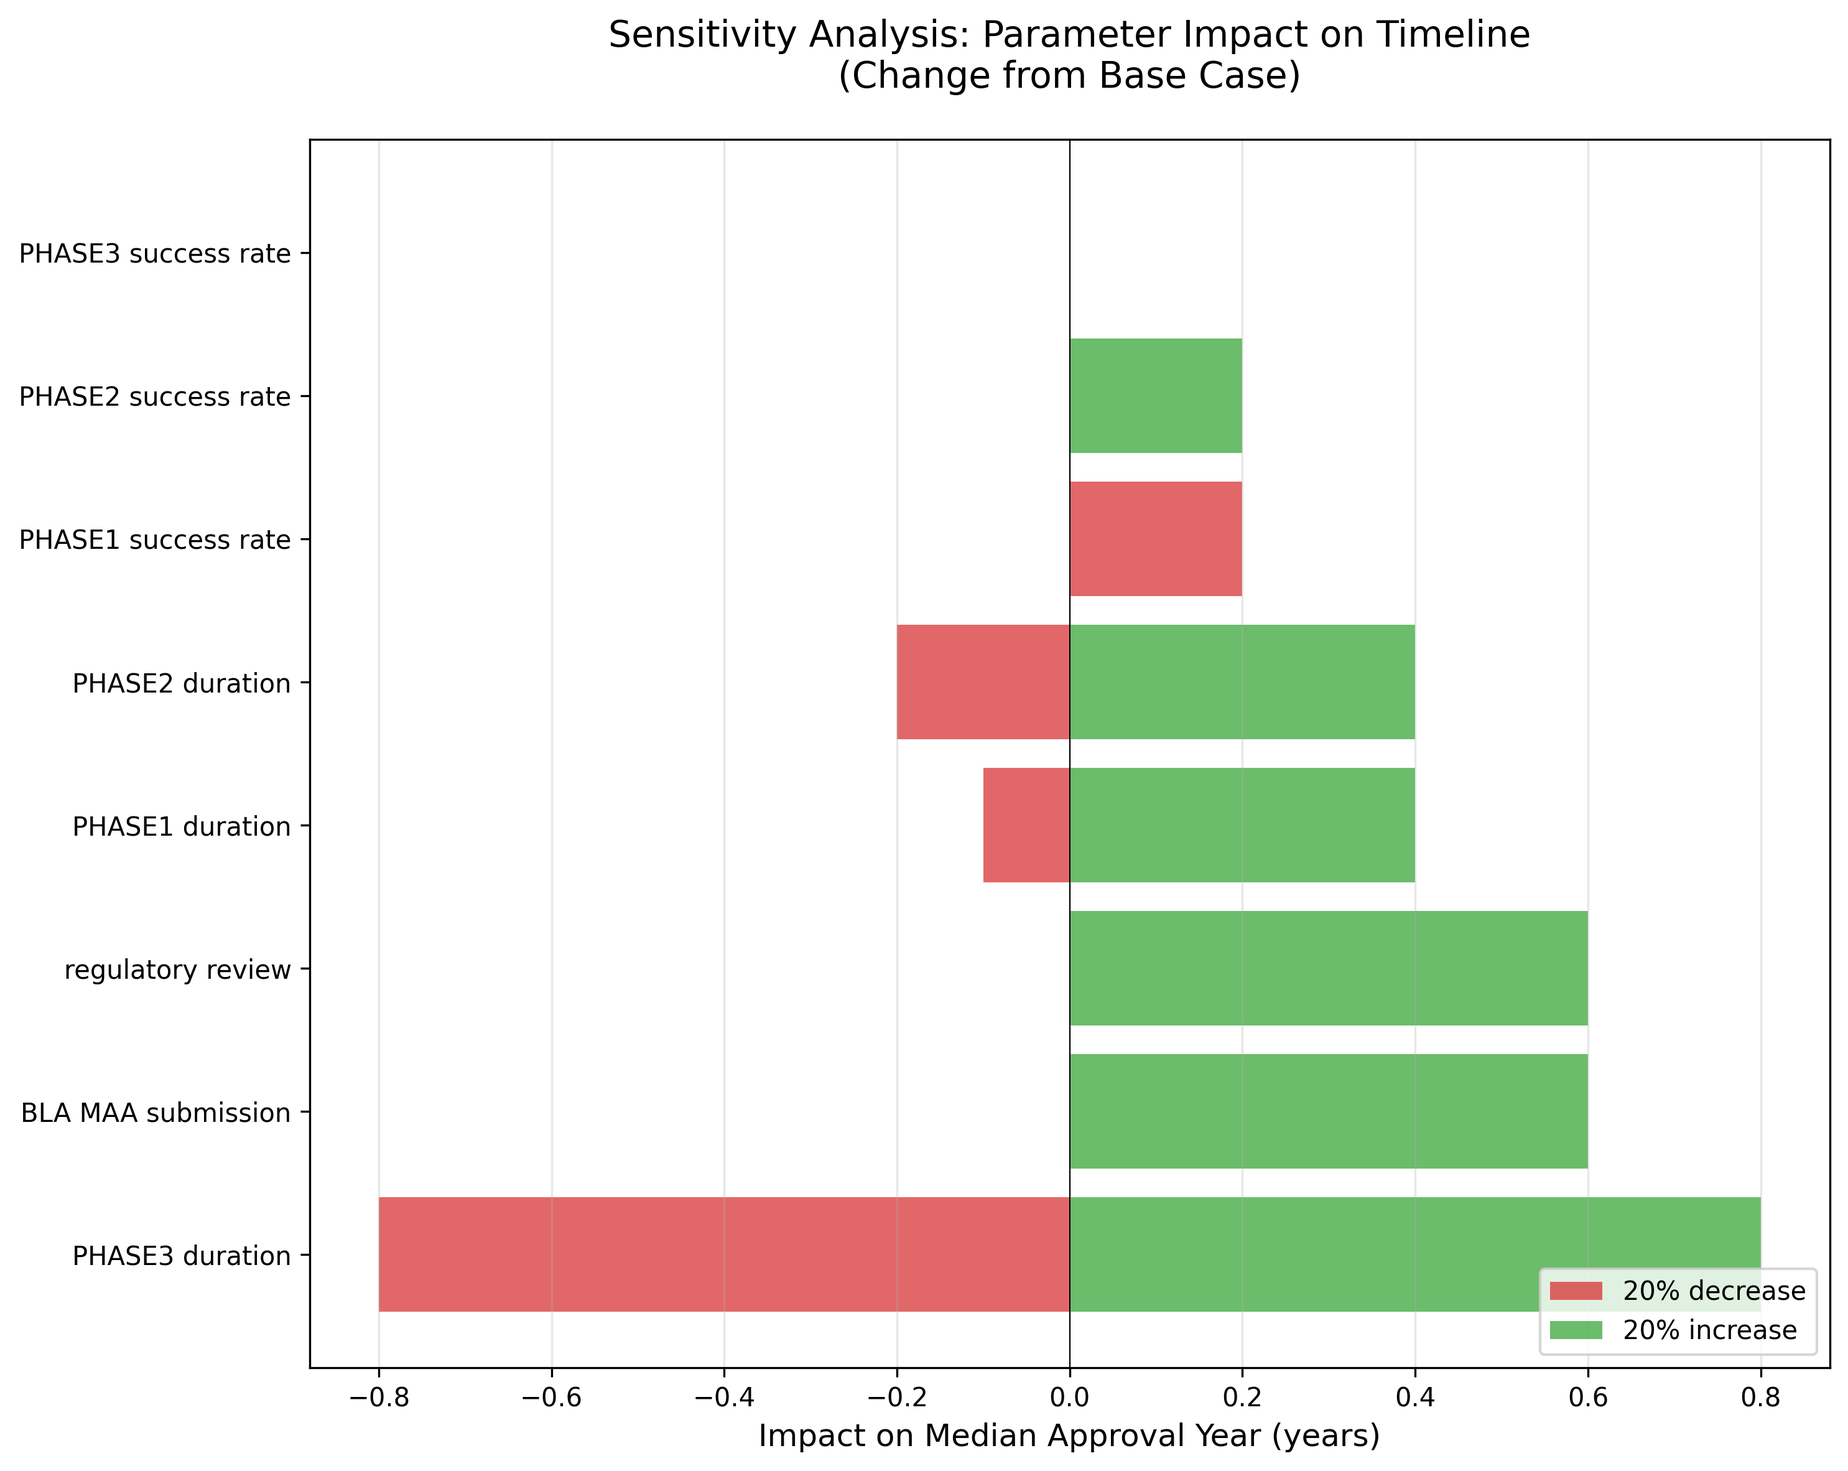
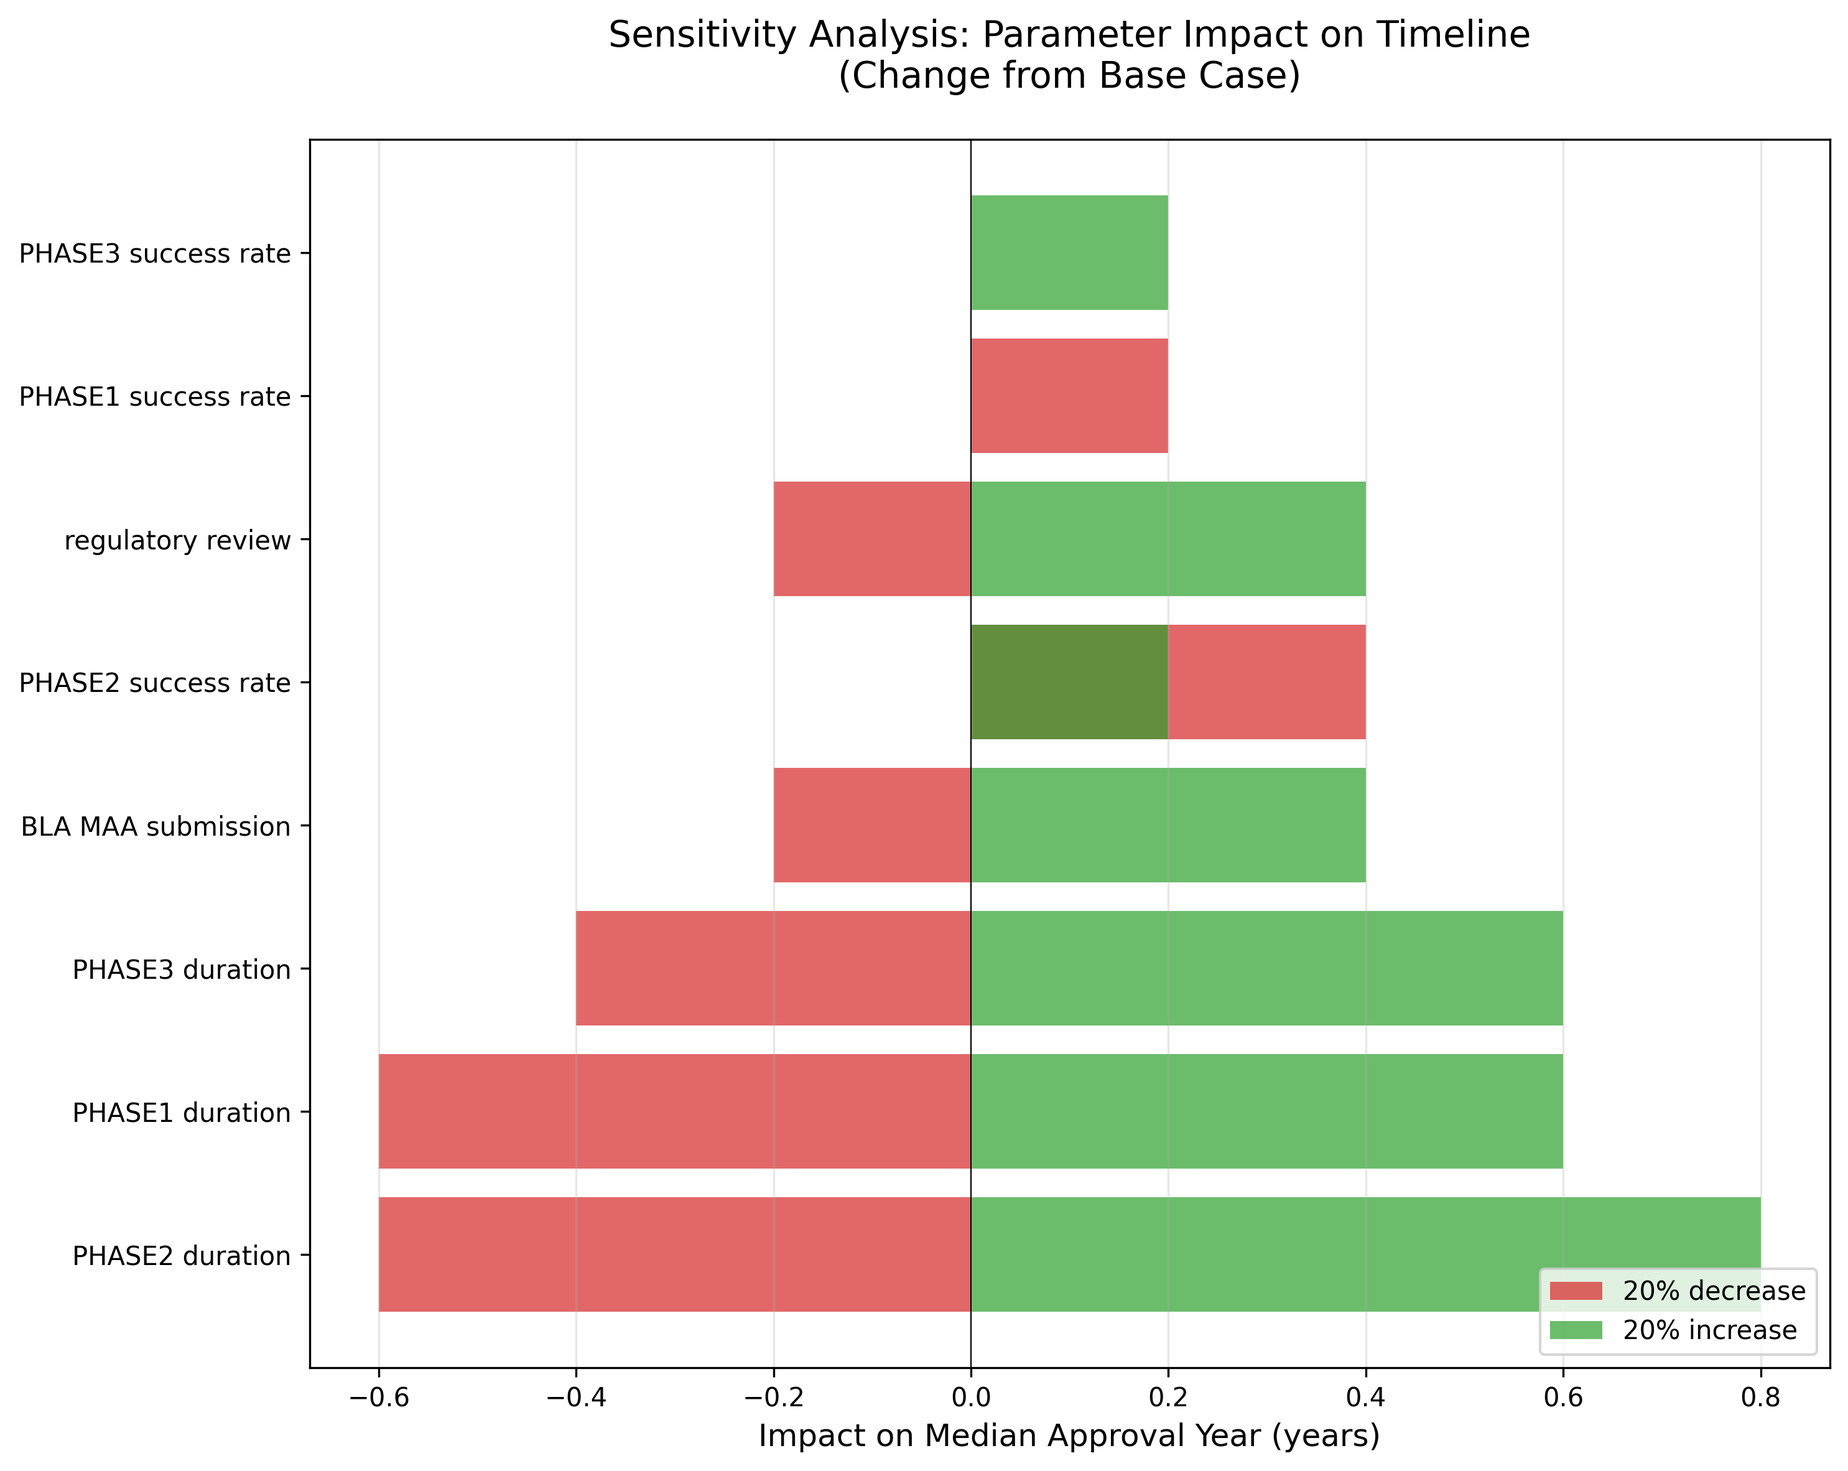
deploy: 4e02e018495c5252b7f7c3d6ae07ec598bbfbc79

diff --git a/public/index_old.html b/public/index_old.html
@@ -121,7 +121,7 @@
         </nav>
         
         <h1>網膜色素変性症（RP）治療開発ロードマップ</h1>
-<p>生成日時: 2025年08月18日 05:12</p>
+<p>生成日時: 2025年10月05日 16:33</p>
 <h2>エグゼクティブサマリー</h2>
 <p>本レポートは、網膜色素変性症（Retinitis Pigmentosa, RP）の治療法開発状況を定量的に分析し、効果的な治療法がいつ頃利用可能になるかを予測したものです。</p>
 <h3>主要な発見（米国FDA承認基準）</h3>
@@ -129,7 +129,7 @@
 <li><strong>最速の承認予測</strong>: 2026年（MCO-010光遺伝学治療）</li>
 <li>根拠: <a href="https://clinicaltrials.gov/study/NCT04945772" rel="noopener noreferrer" target="_blank">https://clinicaltrials.gov/study/NCT04945772</a></li>
 <li><strong>全体の中央値</strong>: 2037年（複数の治療法が利用可能になる時期）</li>
-<li><strong>現在アクティブな臨床試験</strong>: 53件（重要な完了試験含む）</li>
+<li><strong>現在アクティブな臨床試験</strong>: 54件（重要な完了試験含む）</li>
 <li><strong>成功率</strong>: Phase 1: 86.2%, Phase 2: 78.4%, Phase 3: 71.4%</li>
 </ul>
 <p>⚠ <strong>重要</strong>: 上記の予測は<strong>米国FDA承認</strong>を基準としています。<br/>
@@ -140,14 +140,14 @@
 <h3>臨床試験データ</h3>
 <ul>
 <li><strong>データソース</strong>: ClinicalTrials.gov</li>
-<li><strong>総試験数</strong>: 128件</li>
-<li><strong>アクティブな試験</strong>: 49件</li>
+<li><strong>総試験数</strong>: 129件</li>
+<li><strong>アクティブな試験</strong>: 51件</li>
 <li><strong>完了した試験</strong>: 52件</li>
 </ul>
 <h3>文献データ</h3>
 <ul>
 <li><strong>データソース</strong>: PubMed</li>
-<li><strong>総論文数</strong>: 800件</li>
+<li><strong>総論文数</strong>: 826件</li>
 <li><strong>検索クエリ</strong>: "retinitis pigmentosa" AND ("gene therapy" OR "cell therapy")</li>
 <li><strong>期間</strong>: 1993-2025年</li>
 </ul>
@@ -162,23 +162,23 @@
 <tbody>
 <tr>
 <td>2025</td>
-<td data-label="論文数">45</td>
+<td data-label="論文数">63</td>
 </tr>
 <tr>
 <td>2024</td>
-<td data-label="論文数">62</td>
+<td data-label="論文数">63</td>
 </tr>
 <tr>
 <td>2023</td>
-<td data-label="論文数">98</td>
+<td data-label="論文数">99</td>
 </tr>
 <tr>
 <td>2022</td>
-<td data-label="論文数">66</td>
+<td data-label="論文数">67</td>
 </tr>
 <tr>
 <td>2021</td>
-<td data-label="論文数">63</td>
+<td data-label="論文数">64</td>
 </tr>
 </tbody>
 </table>
@@ -225,24 +225,14 @@
 <td data-label="90%信頼区間（FDA）">[2027, 2027]</td>
 </tr>
 <tr>
-<td>NCT04850118</td>
-<td data-label="治療法名">A Clinical Trial Evaluating the Safety a...</td>
-<td data-label="フェーズ">PHASE2, PHASE3</td>
-<td data-label="スポンサー">Beacon Therapeutics</td>
-<td data-label="成功率">100.0%</td>
-<td data-label="FDA承認予測（中央値）">2029年</td>
+<td>NCT05537220</td>
+<td data-label="治療法名">Oral N-acetylcysteine for Retinitis Pigm...</td>
+<td data-label="フェーズ">PHASE3</td>
+<td data-label="スポンサー">Johns Hopkins University</td>
+<td data-label="成功率">71.2%</td>
+<td data-label="FDA承認予測（中央値）">2028年</td>
 <td data-label="日本承認予測（中央値）">2034年</td>
-<td data-label="90%信頼区間（FDA）">[2029, 2029]</td>
-</tr>
-<tr>
-<td>NCT06275620</td>
-<td data-label="治療法名">A Study Comparing Two Doses of AGTC-501 ...</td>
-<td data-label="フェーズ">PHASE2</td>
-<td data-label="スポンサー">Beacon Therapeutics</td>
-<td data-label="成功率">100.0%</td>
-<td data-label="FDA承認予測（中央値）">2029年</td>
-<td data-label="日本承認予測（中央値）">2034年</td>
-<td data-label="90%信頼区間（FDA）">[2029, 2029]</td>
+<td data-label="90%信頼区間（FDA）">[2028, 2030]</td>
 </tr>
 <tr>
 <td>NCT06333249</td>
@@ -252,57 +242,67 @@
 <td data-label="成功率">100.0%</td>
 <td data-label="FDA承認予測（中央値）">2029年</td>
 <td data-label="日本承認予測（中央値）">2034年</td>
-<td data-label="90%信頼区間（FDA）">[2029, 2029]</td>
+<td data-label="90%信頼区間（FDA）">[2029, 2030]</td>
 </tr>
 <tr>
-<td>NCT00999609</td>
-<td data-label="治療法名">Safety and Efficacy Study in Subjects Wi...</td>
+<td>NCT03584165</td>
+<td data-label="治療法名">Long-term Safety and Efficacy Follow-up ...</td>
 <td data-label="フェーズ">PHASE3</td>
-<td data-label="スポンサー">Spark Therapeutics, Inc.</td>
-<td data-label="成功率">70.4%</td>
+<td data-label="スポンサー">NightstaRx Ltd, a Biogen Company</td>
+<td data-label="成功率">71.9%</td>
 <td data-label="FDA承認予測（中央値）">2029年</td>
 <td data-label="日本承認予測（中央値）">2034年</td>
 <td data-label="90%信頼区間（FDA）">[2029, 2030]</td>
 </tr>
 <tr>
-<td>NCT06852963</td>
-<td data-label="治療法名">A Study of Two Doses of VP-001 Administe...</td>
-<td data-label="フェーズ">PHASE1, PHASE2</td>
-<td data-label="スポンサー">PYC Therapeutics</td>
+<td>NCT06275620</td>
+<td data-label="治療法名">A Study Comparing Two Doses of AGTC-501 ...</td>
+<td data-label="フェーズ">PHASE2</td>
+<td data-label="スポンサー">Beacon Therapeutics</td>
 <td data-label="成功率">100.0%</td>
-<td data-label="FDA承認予測（中央値）">2030年</td>
-<td data-label="日本承認予測（中央値）">2035年</td>
+<td data-label="FDA承認予測（中央値）">2029年</td>
+<td data-label="日本承認予測（中央値）">2034年</td>
 <td data-label="90%信頼区間（FDA）">[2029, 2030]</td>
 </tr>
 <tr>
-<td>NCT06455826</td>
-<td data-label="治療法名">MAD of IVT VP-001 in PRPF31 Mutation-Ass...</td>
-<td data-label="フェーズ">PHASE1</td>
-<td data-label="スポンサー">PYC Therapeutics</td>
+<td>NCT04850118</td>
+<td data-label="治療法名">A Clinical Trial Evaluating the Safety a...</td>
+<td data-label="フェーズ">PHASE2, PHASE3</td>
+<td data-label="スポンサー">Beacon Therapeutics</td>
 <td data-label="成功率">100.0%</td>
-<td data-label="FDA承認予測（中央値）">2030年</td>
-<td data-label="日本承認予測（中央値）">2035年</td>
+<td data-label="FDA承認予測（中央値）">2029年</td>
+<td data-label="日本承認予測（中央値）">2034年</td>
 <td data-label="90%信頼区間（FDA）">[2029, 2030]</td>
-</tr>
-<tr>
-<td>NCT05537220</td>
-<td data-label="治療法名">Oral N-acetylcysteine for Retinitis Pigm...</td>
-<td data-label="フェーズ">PHASE3</td>
-<td data-label="スポンサー">Johns Hopkins University</td>
-<td data-label="成功率">71.7%</td>
-<td data-label="FDA承認予測（中央値）">2032年</td>
-<td data-label="日本承認予測（中央値）">2037年</td>
-<td data-label="90%信頼区間（FDA）">[2031, 2033]</td>
 </tr>
 <tr>
 <td>NCT07082855</td>
 <td data-label="治療法名">A Multicenter, Randomized, Double-Blind,...</td>
 <td data-label="フェーズ">PHASE3</td>
 <td data-label="スポンサー">Zhongshan Ophthalmic Center, Sun Yat-sen University</td>
+<td data-label="成功率">71.4%</td>
+<td data-label="FDA承認予測（中央値）">2030年</td>
+<td data-label="日本承認予測（中央値）">2035年</td>
+<td data-label="90%信頼区間（FDA）">[2029, 2031]</td>
+</tr>
+<tr>
+<td>NCT02065011</td>
+<td data-label="治療法名">A Study to Determine the Long-Term Safet...</td>
+<td data-label="フェーズ">PHASE2</td>
+<td data-label="スポンサー">Sanofi</td>
+<td data-label="成功率">55.3%</td>
+<td data-label="FDA承認予測（中央値）">2030年</td>
+<td data-label="日本承認予測（中央値）">2035年</td>
+<td data-label="90%信頼区間（FDA）">[2029, 2031]</td>
+</tr>
+<tr>
+<td>NCT00999609</td>
+<td data-label="治療法名">Safety and Efficacy Study in Subjects Wi...</td>
+<td data-label="フェーズ">PHASE3</td>
+<td data-label="スポンサー">Spark Therapeutics, Inc.</td>
 <td data-label="成功率">70.6%</td>
-<td data-label="FDA承認予測（中央値）">2032年</td>
-<td data-label="日本承認予測（中央値）">2037年</td>
-<td data-label="90%信頼区間（FDA）">[2031, 2033]</td>
+<td data-label="FDA承認予測（中央値）">2030年</td>
+<td data-label="日本承認予測（中央値）">2035年</td>
+<td data-label="90%信頼区間（FDA）">[2029, 2031]</td>
 </tr>
 </tbody>
 </table>
@@ -334,17 +334,10 @@
 <td data-label="遅延期間（中央値）">+5.0年</td>
 </tr>
 <tr>
-<td>NCT04850118</td>
-<td data-label="FDA承認予測">2029年</td>
+<td>NCT05537220</td>
+<td data-label="FDA承認予測">2028年</td>
 <td data-label="日本承認予測（中央値）"><strong>2034年</strong></td>
-<td data-label="日本承認90%信頼区間">[2033, 2035]</td>
-<td data-label="遅延期間（中央値）">+5.0年</td>
-</tr>
-<tr>
-<td>NCT06275620</td>
-<td data-label="FDA承認予測">2029年</td>
-<td data-label="日本承認予測（中央値）"><strong>2034年</strong></td>
-<td data-label="日本承認90%信頼区間">[2033, 2035]</td>
+<td data-label="日本承認90%信頼区間">[2032, 2035]</td>
 <td data-label="遅延期間（中央値）">+5.0年</td>
 </tr>
 <tr>
@@ -354,13 +347,20 @@
 <td data-label="日本承認90%信頼区間">[2033, 2035]</td>
 <td data-label="遅延期間（中央値）">+5.0年</td>
 </tr>
+<tr>
+<td>NCT03584165</td>
+<td data-label="FDA承認予測">2029年</td>
+<td data-label="日本承認予測（中央値）"><strong>2034年</strong></td>
+<td data-label="日本承認90%信頼区間">[2033, 2036]</td>
+<td data-label="遅延期間（中央値）">+5.0年</td>
+</tr>
 </tbody>
 </table>
 <p>詳細は<a href="regional_approval_timeline.html">地域別承認予測タイムライン</a>をご覧ください。</p>
 <h3>治療モダリティ別の状況</h3>
 <h4>遺伝子治療</h4>
 <ul>
-<li><strong>試験数</strong>: 32件</li>
+<li><strong>試験数</strong>: 33件</li>
 <li><strong>主要なターゲット遺伝子</strong>: RPGR, RPE65, PDE6A, USH2A</li>
 <li><strong>最速FDA承認予測</strong>: 2026年（MCO-010光遺伝学治療）</li>
 </ul>
@@ -381,11 +381,12 @@
 <p><img alt="トルネード図" src="images/tornado.png"/></p>
 <h3>主要な影響要因</h3>
 <ul>
-<li><strong>PHASE3 duration</strong> (increase 20%): +0.8年の影響</li>
-<li><strong>BLA MAA submission</strong> (increase 20%): +0.6年の影響</li>
-<li><strong>regulatory review</strong> (increase 20%): +0.6年の影響</li>
-<li><strong>PHASE1 duration</strong> (increase 20%): +0.4年の影響</li>
-<li><strong>PHASE2 duration</strong> (increase 20%): +0.4年の影響</li>
+<li><strong>PHASE2 duration</strong> (increase 20%): +0.8年の影響</li>
+<li><strong>PHASE1 duration</strong> (increase 20%): +0.6年の影響</li>
+<li><strong>PHASE3 duration</strong> (increase 20%): +0.6年の影響</li>
+<li><strong>BLA MAA submission</strong> (increase 20%): +0.4年の影響</li>
+<li><strong>PHASE2 success rate</strong> (decrease 20%): +0.4年の影響</li>
+<li><strong>regulatory review</strong> (increase 20%): +0.4年の影響</li>
 </ul>
 <h2>4. 予測の可視化</h2>
 <h3>累積承認確率</h3>

diff --git a/content/main/index.md b/content/main/index.md
@@ -1,6 +1,6 @@
 # 網膜色素変性症（RP）治療開発ロードマップ
 
-生成日時: 2025年08月18日 05:12
+生成日時: 2025年10月05日 16:33
 
 ## エグゼクティブサマリー
 
@@ -11,7 +11,7 @@
 - **最速の承認予測**: 2026年（MCO-010光遺伝学治療）
   - 根拠: https://clinicaltrials.gov/study/NCT04945772
 - **全体の中央値**: 2037年（複数の治療法が利用可能になる時期）
-- **現在アクティブな臨床試験**: 53件（重要な完了試験含む）
+- **現在アクティブな臨床試験**: 54件（重要な完了試験含む）
 - **成功率**: Phase 1: 86.2%, Phase 2: 78.4%, Phase 3: 71.4%
 
 ⚠ **重要**: 上記の予測は**米国FDA承認**を基準としています。
@@ -23,24 +23,24 @@
 
 ### 臨床試験データ
 - **データソース**: ClinicalTrials.gov
-- **総試験数**: 128件
-- **アクティブな試験**: 49件
+- **総試験数**: 129件
+- **アクティブな試験**: 51件
 - **完了した試験**: 52件
 
 ### 文献データ
 - **データソース**: PubMed
-- **総論文数**: 800件
+- **総論文数**: 826件
 - **検索クエリ**: "retinitis pigmentosa" AND ("gene therapy" OR "cell therapy")
 - **期間**: 1993-2025年
 
 #### 年別論文数（直近5年）
 | 年 | 論文数 |
 |---|--------|
-| 2025 | 45 |
-| 2024 | 62 |
-| 2023 | 98 |
-| 2022 | 66 |
-| 2021 | 63 |
+| 2025 | 63 |
+| 2024 | 63 |
+| 2023 | 99 |
+| 2022 | 67 |
+| 2021 | 64 |
 
 
 ## 2. モンテカルロシミュレーション結果
@@ -56,14 +56,14 @@
 |--------|----------|----------|------------|--------|---------------------|---------------------|------------------|
 | NCT05203939 | Study to Assess the Safety and Efficacy ... | PHASE1, PHASE2 | Ocugen | 100.0% | 2027年 | 2032年 | [2027, 2027] |
 | NCT06388200 | A Phase 3 Study Of OCU400 Gene Therapy f... | PHASE3 | Ocugen | 100.0% | 2027年 | 2032年 | [2027, 2027] |
-| NCT04850118 | A Clinical Trial Evaluating the Safety a... | PHASE2, PHASE3 | Beacon Therapeutics | 100.0% | 2029年 | 2034年 | [2029, 2029] |
-| NCT06275620 | A Study Comparing Two Doses of AGTC-501 ... | PHASE2 | Beacon Therapeutics | 100.0% | 2029年 | 2034年 | [2029, 2029] |
-| NCT06333249 | A Study Comparing Two Doses of AGTC-501 ... | PHASE2 | Beacon Therapeutics | 100.0% | 2029年 | 2034年 | [2029, 2029] |
-| NCT00999609 | Safety and Efficacy Study in Subjects Wi... | PHASE3 | Spark Therapeutics, Inc. | 70.4% | 2029年 | 2034年 | [2029, 2030] |
-| NCT06852963 | A Study of Two Doses of VP-001 Administe... | PHASE1, PHASE2 | PYC Therapeutics | 100.0% | 2030年 | 2035年 | [2029, 2030] |
-| NCT06455826 | MAD of IVT VP-001 in PRPF31 Mutation-Ass... | PHASE1 | PYC Therapeutics | 100.0% | 2030年 | 2035年 | [2029, 2030] |
-| NCT05537220 | Oral N-acetylcysteine for Retinitis Pigm... | PHASE3 | Johns Hopkins University | 71.7% | 2032年 | 2037年 | [2031, 2033] |
-| NCT07082855 | A Multicenter, Randomized, Double-Blind,... | PHASE3 | Zhongshan Ophthalmic Center, Sun Yat-sen University | 70.6% | 2032年 | 2037年 | [2031, 2033] |
+| NCT05537220 | Oral N-acetylcysteine for Retinitis Pigm... | PHASE3 | Johns Hopkins University | 71.2% | 2028年 | 2034年 | [2028, 2030] |
+| NCT06333249 | A Study Comparing Two Doses of AGTC-501 ... | PHASE2 | Beacon Therapeutics | 100.0% | 2029年 | 2034年 | [2029, 2030] |
+| NCT03584165 | Long-term Safety and Efficacy Follow-up ... | PHASE3 | NightstaRx Ltd, a Biogen Company | 71.9% | 2029年 | 2034年 | [2029, 2030] |
+| NCT06275620 | A Study Comparing Two Doses of AGTC-501 ... | PHASE2 | Beacon Therapeutics | 100.0% | 2029年 | 2034年 | [2029, 2030] |
+| NCT04850118 | A Clinical Trial Evaluating the Safety a... | PHASE2, PHASE3 | Beacon Therapeutics | 100.0% | 2029年 | 2034年 | [2029, 2030] |
+| NCT07082855 | A Multicenter, Randomized, Double-Blind,... | PHASE3 | Zhongshan Ophthalmic Center, Sun Yat-sen University | 71.4% | 2030年 | 2035年 | [2029, 2031] |
+| NCT02065011 | A Study to Determine the Long-Term Safet... | PHASE2 | Sanofi | 55.3% | 2030年 | 2035年 | [2029, 2031] |
+| NCT00999609 | Safety and Efficacy Study in Subjects Wi... | PHASE3 | Spark Therapeutics, Inc. | 70.6% | 2030年 | 2035年 | [2029, 2031] |
 
 
 ### 日本での承認予測
@@ -74,9 +74,9 @@
 |--------|------------|---------------------|-------------------|---------------------|
 | NCT05203939 | 2027年 | **2032年** | [2031, 2033] | +5.0年 |
 | NCT06388200 | 2027年 | **2032年** | [2031, 2033] | +5.0年 |
-| NCT04850118 | 2029年 | **2034年** | [2033, 2035] | +5.0年 |
-| NCT06275620 | 2029年 | **2034年** | [2033, 2035] | +5.0年 |
+| NCT05537220 | 2028年 | **2034年** | [2032, 2035] | +5.0年 |
 | NCT06333249 | 2029年 | **2034年** | [2033, 2035] | +5.0年 |
+| NCT03584165 | 2029年 | **2034年** | [2033, 2036] | +5.0年 |
 
 
 詳細は[地域別承認予測タイムライン](regional_approval_timeline.html)をご覧ください。
@@ -84,7 +84,7 @@
 ### 治療モダリティ別の状況
 
 #### 遺伝子治療
-- **試験数**: 32件
+- **試験数**: 33件
 - **主要なターゲット遺伝子**: RPGR, RPE65, PDE6A, USH2A
 - **最速FDA承認予測**: 2026年（MCO-010光遺伝学治療）
 
@@ -105,11 +105,12 @@
 ![トルネード図](images/tornado.png)
 
 ### 主要な影響要因
-- **PHASE3 duration** (increase 20%): +0.8年の影響
-- **BLA MAA submission** (increase 20%): +0.6年の影響
-- **regulatory review** (increase 20%): +0.6年の影響
-- **PHASE1 duration** (increase 20%): +0.4年の影響
-- **PHASE2 duration** (increase 20%): +0.4年の影響
+- **PHASE2 duration** (increase 20%): +0.8年の影響
+- **PHASE1 duration** (increase 20%): +0.6年の影響
+- **PHASE3 duration** (increase 20%): +0.6年の影響
+- **BLA MAA submission** (increase 20%): +0.4年の影響
+- **PHASE2 success rate** (decrease 20%): +0.4年の影響
+- **regulatory review** (increase 20%): +0.4年の影響
 
 
 ## 4. 予測の可視化
